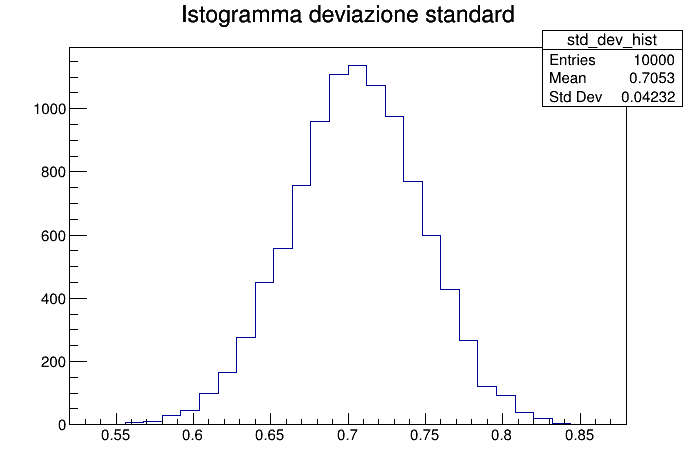
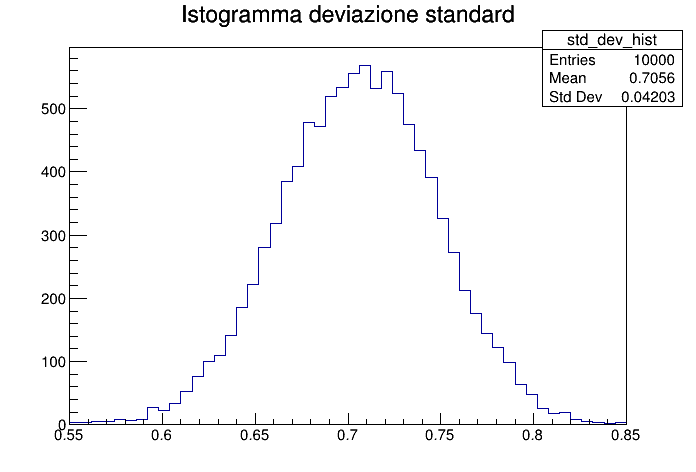
DONE

diff --git a/esame_17012022/main.cpp b/esame_17012022/main.cpp
@@ -69,8 +69,8 @@ int main () {
     }
     
     //Creiamo e stampiamo gli istogrammi relativi ai risultati dei toy experiments
-    TH1F mean_hist ("mean_hist" , "Istogramma media" , 30 , mean_min , mean_max);
-    TH1F std_dev_hist ("std_dev_hist" , "Istogramma deviazione standard" , 30 , std_dev_min , std_dev_max);
+    TH1F mean_hist ("mean_hist" , "Istogramma media" , 50 , mean_min , mean_max);
+    TH1F std_dev_hist ("std_dev_hist" , "Istogramma deviazione standard" , 50 , std_dev_min , std_dev_max);
     for (int i = 0 ; i < n_toy ; ++i) {
         mean_hist.Fill(toy_mean[i]);
         std_dev_hist.Fill(toy_std_dev[i]);
